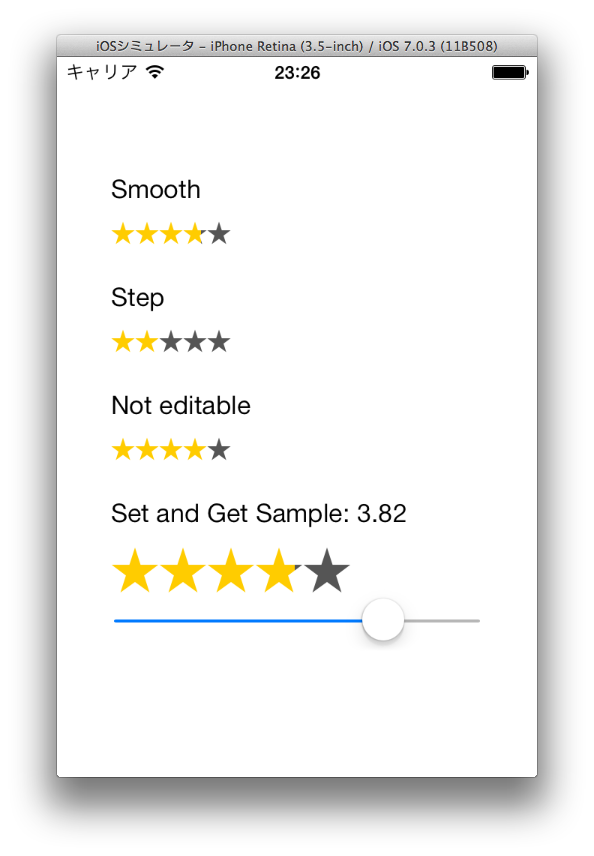
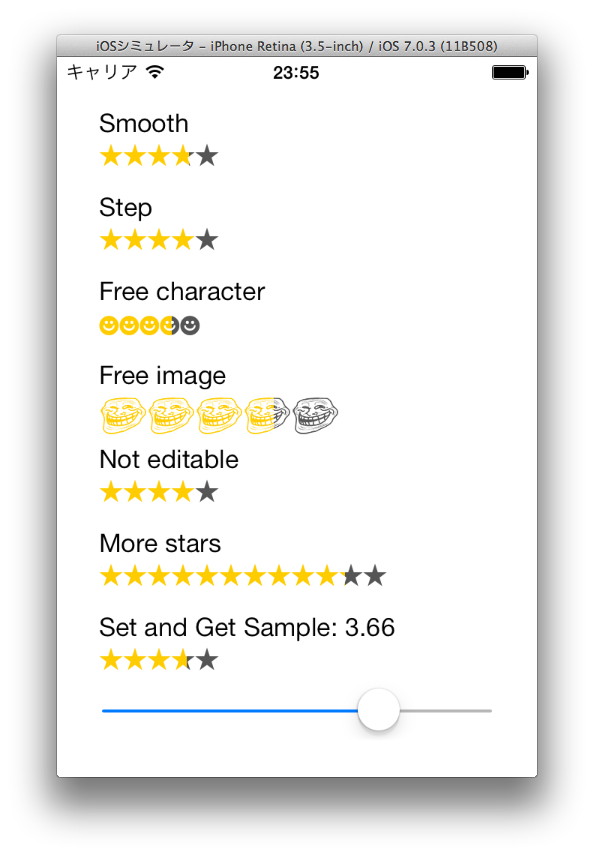
More effective sample

diff --git a/AXRatingViewDemo/AXRatingViewDemo/AXViewController.m b/AXRatingViewDemo/AXRatingViewDemo/AXViewController.m
@@ -5,10 +5,6 @@
 
 #import "AXViewController.h"
 
-@interface AXViewController ()
-
-@end
-
 @implementation AXViewController
 
 - (void)viewDidLoad
@@ -16,9 +12,9 @@
   [super viewDidLoad];
   self.view.backgroundColor = [UIColor whiteColor];
   
-  CGFloat padding = 36.0;
+  CGFloat padding = 28.0;
   CGRect componentBounds = (CGRect){
-    padding, padding,
+    padding, 0.0,
     CGRectGetWidth(self.view.bounds) - padding * 2, 32.0
   };
   __block NSUInteger positionCounter = 0;
@@ -47,18 +43,52 @@
   [stepRatingView sizeToFit];
   [stepRatingView setSmoothEditing:NO];
   [self.view addSubview:stepRatingView];
-
+  
+  // Free character
+  
+  UILabel *freeCharacterLabel = [[UILabel alloc] initWithFrame:nextFrame()];
+  freeCharacterLabel.text = @"Free character";
+  [self.view addSubview:freeCharacterLabel];
+  
+  AXRatingView *freeCharacterRatingView = [[AXRatingView alloc] initWithFrame:nextFrame()];
+  [freeCharacterRatingView setMarkCharacter:@"\u263B"];
+  freeCharacterRatingView.markFont = [UIFont systemFontOfSize:18.0];
+  [freeCharacterRatingView sizeToFit];
+  [self.view addSubview:freeCharacterRatingView];
+  
+  // Free image
+  
+  UILabel *freeImageLabel = [[UILabel alloc] initWithFrame:nextFrame()];
+  freeImageLabel.text = @"Free image";
+  [self.view addSubview:freeImageLabel];
+  
+  AXRatingView *freeImageRatingView = [[AXRatingView alloc] initWithFrame:nextFrame()];
+  [freeImageRatingView setMarkImage:[UIImage imageNamed:@"face"]];
+  [freeImageRatingView sizeToFit];
+  [self.view addSubview:freeImageRatingView];
+  
   // Not editable
-
+  
   UILabel *notEditableLabel = [[UILabel alloc] initWithFrame:nextFrame()];
   notEditableLabel.text = @"Not editable";
   [self.view addSubview:notEditableLabel];
-
+  
   AXRatingView *notEditableRatingView = [[AXRatingView alloc] initWithFrame:nextFrame()];
   [notEditableRatingView sizeToFit];
   [notEditableRatingView setUserInteractionEnabled:NO];
   [notEditableRatingView setValue:4.0];
   [self.view addSubview:notEditableRatingView];
+  
+  // More stars
+  
+  UILabel *moreStarsLabel = [[UILabel alloc] initWithFrame:nextFrame()];
+  moreStarsLabel.text = @"More stars";
+  [self.view addSubview:moreStarsLabel];
+  
+  AXRatingView *moreStarsRatingView = [[AXRatingView alloc] initWithFrame:nextFrame()];
+  [moreStarsRatingView setNumberOfStar:12];
+  [moreStarsRatingView sizeToFit];
+  [self.view addSubview:moreStarsRatingView];
 
   // Set and get
 
@@ -66,7 +96,6 @@
   [self.view addSubview:_label];
   
   self.ratingView = [[AXRatingView alloc] initWithFrame:nextFrame()];
-  _ratingView.markFont = [UIFont systemFontOfSize:32.0];
   _ratingView.smoothEditing = NO;
   _ratingView.value = 2.5;
   _ratingView.userInteractionEnabled = YES; // if NO, just showing. default value is YES.
@@ -79,13 +108,8 @@
   _slider.maximumValue = 5.0;
   [_slider addTarget:self action:@selector(sliderChanged:) forControlEvents:UIControlEventValueChanged];
   [self.view addSubview:_slider];
+  
   [self ratingChanged:self.ratingView];
-}
-
-- (void)didReceiveMemoryWarning
-{
-  [super didReceiveMemoryWarning];
-  // Dispose of any resources that can be recreated.
 }
 
 - (void)sliderChanged:(UISlider *)sender

diff --git a/AXRatingViewDemo/AXRatingViewDemo/AXAppDelegate.m b/AXRatingViewDemo/AXRatingViewDemo/AXAppDelegate.m
@@ -17,31 +17,4 @@
   return YES;
 }
 
-- (void)applicationWillResignActive:(UIApplication *)application
-{
-  // Sent when the application is about to move from active to inactive state. This can occur for certain types of temporary interruptions (such as an incoming phone call or SMS message) or when the user quits the application and it begins the transition to the background state.
-  // Use this method to pause ongoing tasks, disable timers, and throttle down OpenGL ES frame rates. Games should use this method to pause the game.
-}
-
-- (void)applicationDidEnterBackground:(UIApplication *)application
-{
-  // Use this method to release shared resources, save user data, invalidate timers, and store enough application state information to restore your application to its current state in case it is terminated later.
-  // If your application supports background execution, this method is called instead of applicationWillTerminate: when the user quits.
-}
-
-- (void)applicationWillEnterForeground:(UIApplication *)application
-{
-  // Called as part of the transition from the background to the inactive state; here you can undo many of the changes made on entering the background.
-}
-
-- (void)applicationDidBecomeActive:(UIApplication *)application
-{
-  // Restart any tasks that were paused (or not yet started) while the application was inactive. If the application was previously in the background, optionally refresh the user interface.
-}
-
-- (void)applicationWillTerminate:(UIApplication *)application
-{
-  // Called when the application is about to terminate. Save data if appropriate. See also applicationDidEnterBackground:.
-}
-
 @end

diff --git a/AXRatingView/AXRatingView.h b/AXRatingView/AXRatingView.h
@@ -11,10 +11,10 @@
 }
 @property (nonatomic) NSUInteger numberOfStar;
 @property (copy, nonatomic) NSString *markCharacter;
-@property (copy, nonatomic) UIFont *markFont;
-@property (strong, nonatomic, readonly) UIImage *markImage;
-@property (copy, nonatomic) UIColor *baseColor;
-@property (copy, nonatomic) UIColor *highlightColor;
+@property (strong, nonatomic) UIFont *markFont;
+@property (strong, nonatomic) UIImage *markImage;
+@property (strong, nonatomic) UIColor *baseColor;
+@property (strong, nonatomic) UIColor *highlightColor;
 @property (nonatomic) float value;
 @property (nonatomic, getter = isSmoothEditing) BOOL smoothEditing;
 

diff --git a/AXRatingView/AXRatingView.m b/AXRatingView/AXRatingView.m
@@ -5,10 +5,6 @@
 #import "AXRatingView.h"
 #import <QuartzCore/QuartzCore.h>
 
-@interface AXRatingView()
-
-@end
-
 @implementation AXRatingView
 
 - (id)initWithFrame:(CGRect)frame
@@ -92,6 +88,12 @@
 {
   _markCharacter = markCharacter;
   _markImage = nil;
+  [self setNeedsDisplay];
+}
+
+- (void)setNumberOfStar:(NSUInteger)numberOfStar
+{
+  _numberOfStar = numberOfStar;
   [self setNeedsDisplay];
 }
 

diff --git a/AXRatingViewDemo/AXRatingViewDemo/AXViewController.h b/AXRatingViewDemo/AXRatingViewDemo/AXViewController.h
@@ -7,7 +7,9 @@
 #import "AXRatingView/AXRatingView.h"
 
 @interface AXViewController : UIViewController
+
 @property (strong ,nonatomic) UILabel *label;
 @property (strong, nonatomic) AXRatingView *ratingView;
 @property (strong ,nonatomic) UISlider *slider;
+
 @end
